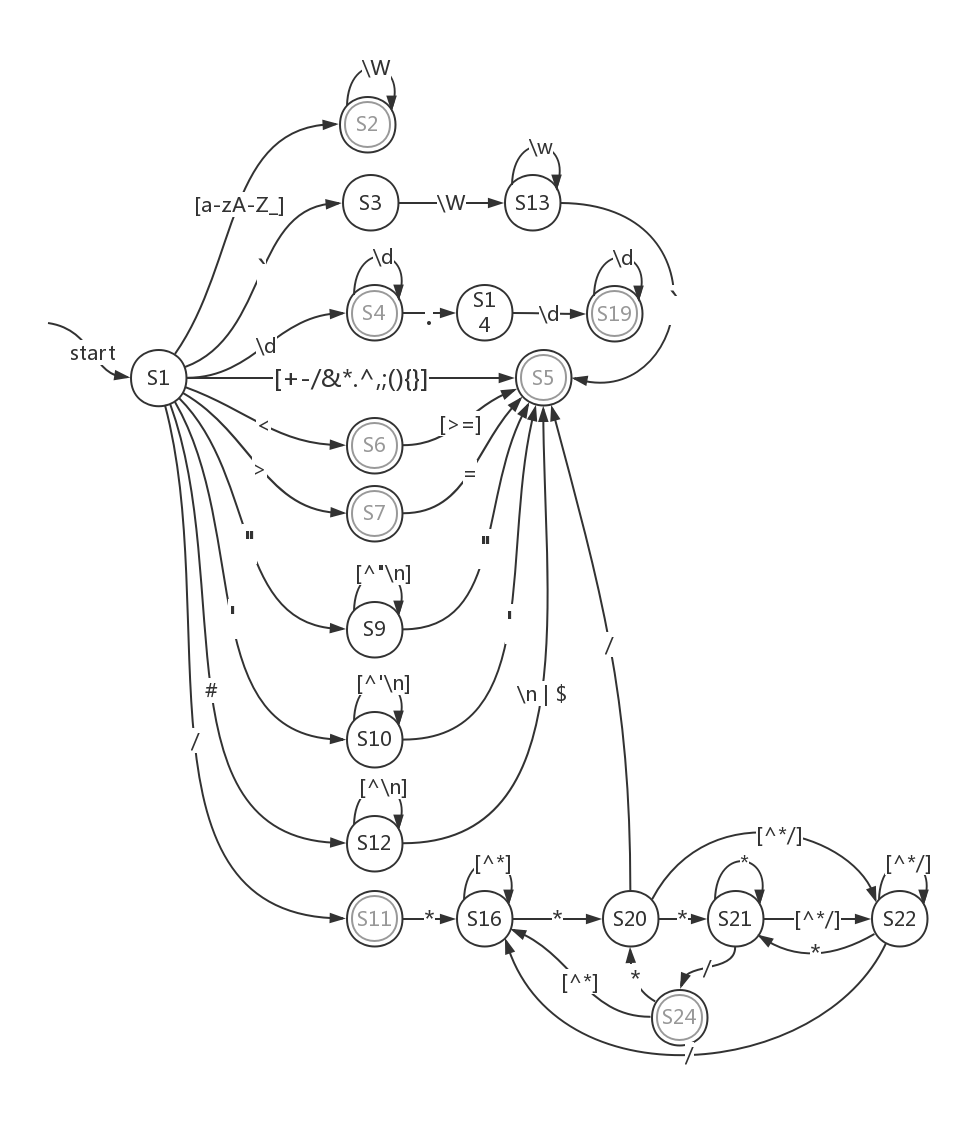
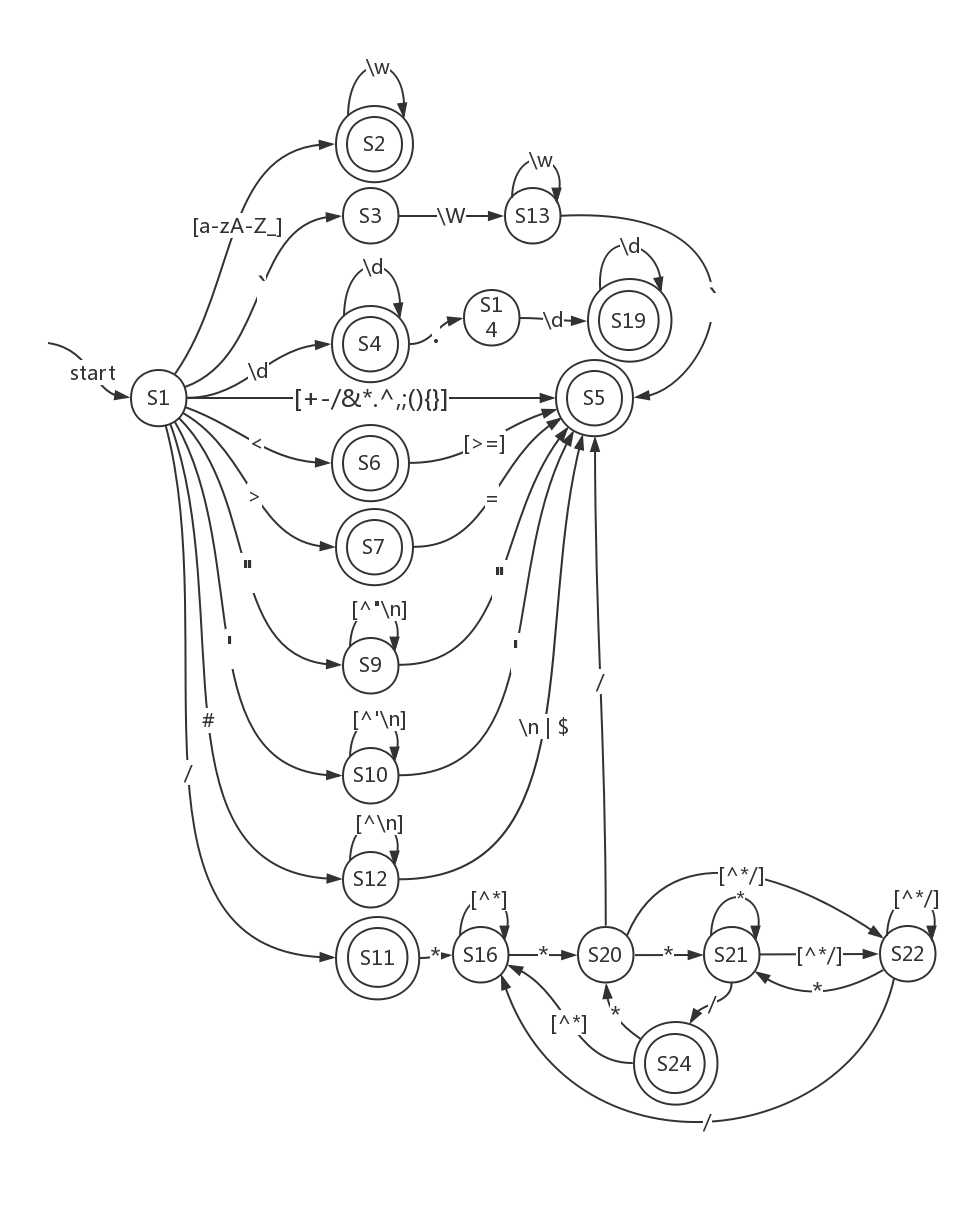
dev: crete DFA and DfaLoader, update pictures

diff --git a/src/DfaLoader.java b/src/DfaLoader.java
@@ -1,0 +1,77 @@
+import java.io.File;
+import java.io.FileInputStream;
+import java.io.IOException;
+import java.nio.charset.StandardCharsets;
+import java.util.ArrayList;
+import java.util.HashMap;
+import java.util.List;
+import java.util.Map;
+
+/**
+ * DFA加载器，可以读取手写的DFA.txt并转换为DFA转换表存起来，可以加载DFA转换表
+ * <br>
+ * created on 2018/11/02
+ *
+ * @author 巽
+ **/
+class DfaLoader {
+	static String PATH = "." + File.separator + "resources" + File.separator;
+
+	/**
+	 * 读取文本，默认编码UTF-8
+	 *
+	 * @param file 文本名
+	 * @return 整个文本
+	 */
+	static String readFile(File file) {
+		Long fileLength = file.length();
+		byte[] fileContent = new byte[fileLength.intValue()];
+		try (FileInputStream in = new FileInputStream(file)) {
+			int read = in.read(fileContent);
+			assert read == -1;
+		} catch (IOException e) {
+			e.printStackTrace();
+			return "";
+		}
+		return new String(fileContent, StandardCharsets.UTF_8);
+	}
+
+	/**
+	 * 读取手写的DFA.txt并转换为DFA转换表存起来
+	 */
+	static void tranDFA() {
+		String dfa = readFile(new File(PATH + "dfa.txt"));
+		String[][] ret = new String[93][];    // ASCII码\32~\126 + \t + \n共93个字符
+		List<Character> chars = new ArrayList<>(); // 字符全集
+		for (int i = 32; i < 127; i++) {
+			chars.add((char) i);
+		}
+		chars.add('\t');
+		chars.add('\n');
+
+//		System.out.println(chars);
+		for (String line : dfa.split("\n")) {
+			String[] string = line.split("\\|");
+			boolean isEnd = (string[0].charAt(0) == '*');
+			String state = string[0].substring(1).trim();
+			String[] changes = string[1].split("<br>");
+			Map<String, String> map = new HashMap<>();
+			for (String change : changes) {
+				String[] sides = change.split("→");
+				if (sides.length > 1) {
+					map.put(sides[0].trim(), sides[1].trim());
+				}
+			}
+			System.out.println(state + ", isEnd: " + isEnd + map);
+		}
+	}
+
+	/**
+	 * 加载DFA转换表
+	 *
+	 * @return DFA转换表
+	 */
+	static DFA loadDFA() {
+		return null;
+	}
+}

diff --git a/src/LexicalAnalyzer.java b/src/LexicalAnalyzer.java
@@ -1,7 +1,5 @@
 import java.io.*;
-import java.nio.charset.StandardCharsets;
-import java.util.ArrayList;
-import java.util.List;
+import java.util.*;
 
 /**
  * 词法分析器
@@ -12,29 +10,36 @@ import java.util.List;
  **/
 public class LexicalAnalyzer {
 
-	public List<Token> analyzeAsSQL(String input) {
+	/**
+	 * 分析SQL词法
+	 *
+	 * @param input SQL语句
+	 * @return 分析结果序列
+	 */
+	private List<Token> analyzeAsSQL(String input) {
 		List<Token> ret = new ArrayList<>();
 
-		input.split("\\*");
+//		System.out.println(input);
 
+		DfaLoader.tranDFA();
+		DFA dfa = DfaLoader.loadDFA();
 		return ret;
 	}
 
-	public List<Token> analyzeAsSQL(File txt) {
-		Long fileLength = txt.length();
-		byte[] fileContent = new byte[fileLength.intValue()];
-		try (FileInputStream in = new FileInputStream(txt)) {
-			in.read(fileContent);
-		} catch (IOException e) {
-			e.printStackTrace();
-			return null;
-		}
-		return analyzeAsSQL(new String(fileContent, StandardCharsets.UTF_8));
+	/**
+	 * 分析SQL词法
+	 *
+	 * @param txt SQL文本
+	 * @return 分析结果序列
+	 */
+	private List<Token> analyzeAsSQL(File txt) {
+		return analyzeAsSQL(DfaLoader.readFile(txt));
 	}
+
 
 	public static void main(String args[]) {
 		LexicalAnalyzer lexicalAnalyzer = new LexicalAnalyzer();
-		File file = new File("." + File.separator + "resources" + File.separator + "input.txt");
-		lexicalAnalyzer.analyzeAsSQL(file);
+		File file = new File(DfaLoader.PATH + "input.txt");
+		System.out.println(lexicalAnalyzer.analyzeAsSQL(file));
 	}
 }

diff --git a/src/DFA.java b/src/DFA.java
@@ -1,0 +1,23 @@
+import java.util.HashMap;
+import java.util.Map;
+
+/**
+ * DFA转换表
+ * <br>
+ * created on 2018/11/02
+ *
+ * @author 巽
+ **/
+public class DFA {
+	private String state = "";
+	private Map<String, Map<String, String>> map = new HashMap<>();
+
+	public void addState(String state, Map<String, String> map){
+		this.map.put(state, map);
+	}
+
+	public String transform(String in){
+		state = map.get(state).getOrDefault(in, "");
+		return state;
+	}
+}

diff --git a/README.md b/README.md
@@ -11,8 +11,8 @@
 ## Ideas/Methods
 
   1. 针对要识别的单词符号写出正则表达式 
-  2. 构造出每个正则表达式对应的NFA 
-  3. 合并所有NFA，并化为最小DFA 
+  2. 构造出每个正则表达式对应的NFA，并合并为一个NFA
+  3. 将NFA化简为最小DFA 
   4. 基于最小DFA编写代码 
   5. 先读取⼀个输⼊字符，判断其可能的类别，再读取下⼀个继续判断，若已经识别出则
     添加到输出token序列，多读的需要退回，否则继续依次读取下⼀个字符，直到结束符为⽌ 
@@ -21,8 +21,8 @@
 
   1. 保留字的识别优先级⾼于标识符
   2. 输入文件的编码为UTF-8
-  3. 字符全集为`\t`、`\n`以及ASCII码中的所有打印字符，输⼊⽂件内容也仅由这些字符组成
-  4. 未被反引号``` ``括起的标识符不以数字开头
+  3. 字符全集为`\t`、`\n`以及ASCII码中的所有可打印字符，输⼊⽂件内容也仅由这些字符组成
+  4. 未被反引号`` ` ``括起的标识符不以数字开头
 
 ## Related FA descriptions
 
